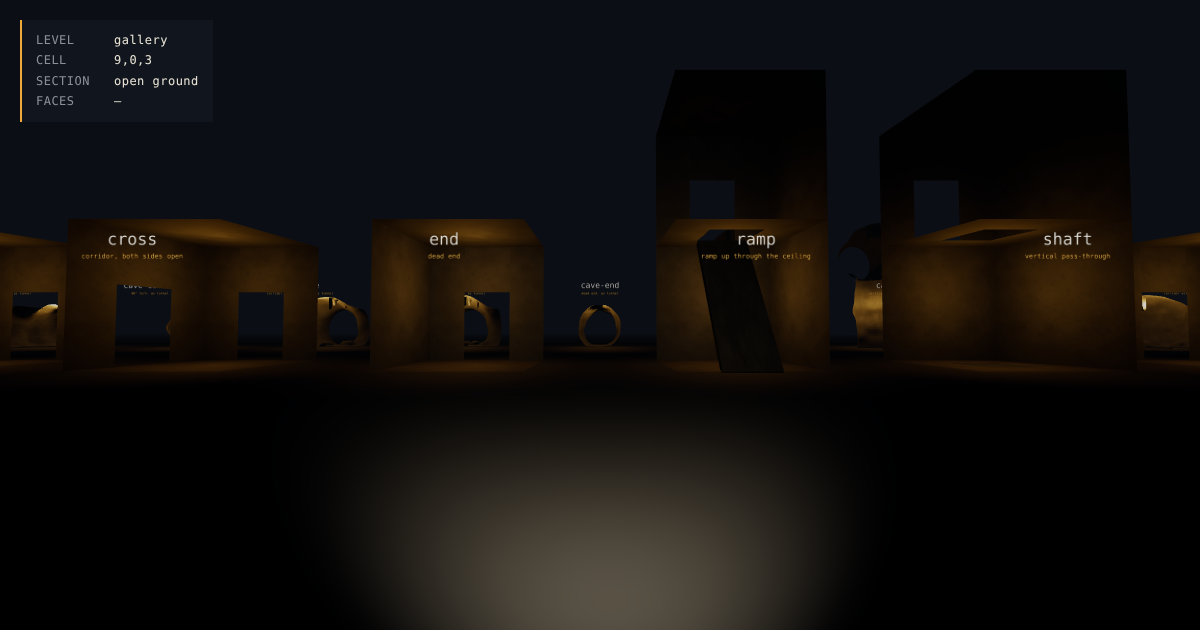
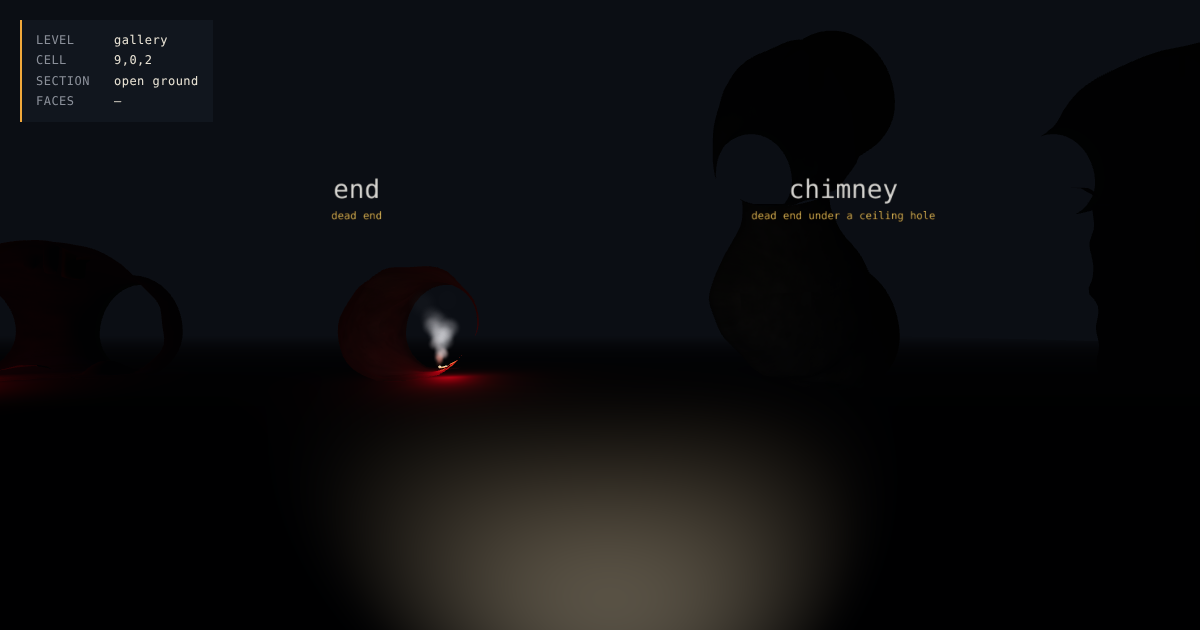
Cave Game: drop the flat cube kit and the ramp; cave sections become the kit
Claude-Session: https://claude.ai/code/session_01LchGKxkuDiaRbqrim1YbHp

diff --git a/Cave Game/src/sections.js b/Cave Game/src/sections.js
@@ -1,5 +1,4 @@
 import * as THREE from "three";
-import { materials } from "./materials.js";
 import { seeded } from "./noise.js";
 import { buildCave } from "./caves.js";
 
@@ -7,35 +6,24 @@ import { buildCave } from "./caves.js";
 // y = 0. Openings sit at fixed positions on each face so any two sections that
 // both open onto a shared face line up.
 export const CELL = 6;
-export const DOOR_W = 2.4;
-export const DOOR_H = 3.6;
-export const HOLE = 2.4;
 
 export const FACES = [ "n", "e", "s", "w" ];
 export const OPPOSITE = { n: "s", e: "w", s: "n", w: "e", up: "down", down: "up" };
 
-const HALF = CELL / 2;
-const RAMP_T = 0.3;
-
 // Openings are listed for rotation 0. "rot" in a level is quarter turns
-// clockwise seen from above; walls rotate, up/down stay put.
-const BASE = {
+// clockwise seen from above; wall openings rotate, up/down stay put.
+export const KIT = {
     corridor: { open: [ "n", "s" ], blurb: "straight pass-through" },
     corner: { open: [ "n", "e" ], blurb: "90° turn" },
-    tee: { open: [ "n", "s", "e" ], blurb: "corridor, one side open" },
-    cross: { open: [ "n", "e", "s", "w" ], blurb: "corridor, both sides open" },
+    tee: { open: [ "n", "s", "e" ], blurb: "one side opens off" },
+    cross: { open: [ "n", "e", "s", "w" ], blurb: "both sides open off" },
     end: { open: [ "n" ], blurb: "dead end" },
-    ramp: { open: [ "s", "up" ], blurb: "ramp up through the ceiling", build: buildRamp },
+    chimney: { open: [ "s", "up" ], blurb: "dead end under a ceiling hole" },
     shaft: { open: [ "up", "down" ], blurb: "vertical pass-through" },
     pit: { open: [ "n", "down" ], blurb: "dead end over a drop" },
-    well: { open: [ "n", "s", "down" ], blurb: "corridor with a floor hole" },
-    cap: { open: [ "n", "s", "up" ], blurb: "corridor with a ceiling hole" }
+    well: { open: [ "n", "s", "down" ], blurb: "passage with a floor hole" },
+    cap: { open: [ "n", "s", "up" ], blurb: "passage with a ceiling hole" }
 };
-
-export const KIT = { ...BASE };
-for ( const [ name, def ] of Object.entries( BASE ) ) {
-    KIT[ `cave-${ name }` ] = { ...def, blurb: `${ def.blurb }, as tunnel`, build: null, cave: true };
-}
 
 export function rotatedOpenings( type, rot ) {
     return KIT[ type ].open.map( ( f ) => {
@@ -44,97 +32,14 @@ export function rotatedOpenings( type, rot ) {
     } );
 }
 
-// Plane whose UVs are scaled so texture density matches a full CELL face.
-function panel( w, h, kind ) {
-    const geo = new THREE.PlaneGeometry( w, h );
-    const uv = geo.attributes.uv;
-    for ( let i = 0; i < uv.count; i++ ) {
-        uv.setXY( i, uv.getX( i ) * w / CELL, uv.getY( i ) * h / CELL );
-    }
-    const mesh = new THREE.Mesh( geo, materials[ kind ] );
-    return mesh;
-}
-
-// Wall in local space: lies at z = +HALF facing the centre (-z). Rotated into
-// place by the caller.
-function buildWall( open ) {
-    const group = new THREE.Group();
-    const add = ( w, h, x, y ) => {
-        const m = panel( w, h, "wall" );
-        m.rotation.y = Math.PI;
-        m.position.set( x, y, HALF );
-        group.add( m );
-    };
-    if ( !open ) {
-        add( CELL, CELL, 0, HALF );
-        return group;
-    }
-    const side = ( CELL - DOOR_W ) / 2;
-    add( side, CELL, -( DOOR_W / 2 + side / 2 ), HALF );
-    add( side, CELL, DOOR_W / 2 + side / 2, HALF );
-    add( DOOR_W, CELL - DOOR_H, 0, DOOR_H + ( CELL - DOOR_H ) / 2 );
-    return group;
-}
-
-// Horizontal slab at y with an optional centred square hole. `up` selects
-// which way it faces.
-function buildSlab( y, hole, up ) {
-    const group = new THREE.Group();
-    const kind = up ? "floor" : "ceiling";
-    const add = ( w, d, x, z ) => {
-        const m = panel( w, d, kind );
-        m.rotation.x = up ? -Math.PI / 2 : Math.PI / 2;
-        m.position.set( x, y, z );
-        group.add( m );
-    };
-    if ( !hole ) {
-        add( CELL, CELL, 0, 0 );
-        return group;
-    }
-    const side = ( CELL - HOLE ) / 2;
-    add( CELL, side, 0, -( HOLE / 2 + side / 2 ) );
-    add( CELL, side, 0, HOLE / 2 + side / 2 );
-    add( side, HOLE, -( HOLE / 2 + side / 2 ), 0 );
-    add( side, HOLE, HOLE / 2 + side / 2, 0 );
-    return group;
-}
-
-// Slab from the south doorsill up to the far edge of the ceiling hole.
-function buildRamp( group ) {
-    const run = HALF + HOLE / 2;
-    const length = Math.hypot( run, CELL );
-    const angle = Math.atan2( CELL, run );
-    const ramp = new THREE.Mesh( new THREE.BoxGeometry( HOLE, RAMP_T, length ), materials.step );
-    ramp.rotation.x = angle;
-    ramp.position.set( 0, CELL / 2 - RAMP_T / 2 * Math.cos( angle ), HALF - run / 2 - RAMP_T / 2 * Math.sin( angle ) );
-    group.add( ramp );
-}
-
-// Builds a section at rotation 0 in local space. Faces point inward only, so
-// from outside a cube you look straight through into it. `seed` keeps a cave
-// section's erosion stable between loads.
+// Builds a section at rotation 0 in local space. `seed` keeps its erosion
+// stable between loads.
 export function buildSection( type, seed = 1 ) {
     const def = KIT[ type ];
     if ( !def ) {
         throw new Error( `Unknown section type: ${ type }` );
     }
-    const open = new Set( def.open );
     const group = new THREE.Group();
-
-    if ( def.cave ) {
-        buildCave( group, open, { rand: seeded( seed ) } );
-    } else {
-        group.add( buildSlab( 0, open.has( "down" ), true ) );
-        group.add( buildSlab( CELL, open.has( "up" ), false ) );
-        FACES.forEach( ( face, i ) => {
-            const wall = buildWall( open.has( face ) );
-            wall.rotation.y = Math.PI - i * Math.PI / 2;
-            group.add( wall );
-        } );
-    }
-
-    if ( def.build ) {
-        def.build( group );
-    }
+    buildCave( group, new Set( def.open ), { rand: seeded( seed ) } );
     return group;
 }

diff --git a/Cave Game/src/caves.js b/Cave Game/src/caves.js
@@ -3,7 +3,7 @@ import { MarchingCubes } from "three/addons/objects/MarchingCubes.js";
 import { materials } from "./materials.js";
 import { noise3 } from "./noise.js";
 
-// Cave sections are carved, not assembled. Each one is a signed distance field
+// Sections are carved, not assembled. Each one is a signed distance field
 // (negative = air) made of tubes running from every opening to the centre,
 // a chamber where three or more meet, and noise that pinches and swells the
 // passage. Marching cubes turns the field into one inward-facing mesh.
@@ -73,8 +73,6 @@ function carve( open, rand ) {
     const horizontal = faces.filter( ( f ) => !DIR[ f ][ 1 ] );
     const vertical = faces.filter( ( f ) => DIR[ f ][ 1 ] );
     const chamber = faces.length >= 3 || ( vertical.length && horizontal.length );
-    const ramp = faces.length === 2 && open.has( "s" ) && open.has( "up" );
-    const rampRun = HALF + VMOUTH - 0.1;
     const seed = rand() * 100;
     const tall = open.has( "up" );
     const hub = { y: tall ? 2.7 : CHAMBER.y, r: tall ? 2.35 : CHAMBER.r };
@@ -137,11 +135,6 @@ function carve( open, rand ) {
             air = Math.max( air, -capsule( px, py, pz, s[ 0 ], 5.6, s[ 1 ], s[ 0 ], s[ 3 ], s[ 1 ], s[ 2 ] ) );
         }
 
-        // Ramp: solid rock under a plane from the south sill up to the ceiling mouth.
-        if ( ramp && Math.abs( px ) < VMOUTH ) {
-            air = Math.max( air, Math.min( CELL * ( HALF - pz ) / rampRun - py, VMOUTH - Math.abs( px ) ) );
-        }
-
         // Shell: rock along every closed face, pierced only by the exact mouth.
         for ( const f of [ "n", "e", "s", "w" ] ) {
             const d = DIR[ f ];
@@ -171,7 +164,7 @@ const offset = -HALF + scale * ( 1 - delta );
 
 export function buildCave( group, open, ctx ) {
     if ( !mc ) {
-        mc = new MarchingCubes( RES, materials.cave_wall, true, false, 40000 );
+        mc = new MarchingCubes( RES, materials.rock, true, false, 40000 );
         mc.isolation = 0;
     }
     const field = carve( open, ctx.rand );
@@ -204,6 +197,6 @@ export function buildCave( group, open, ctx ) {
     }
     geo.setAttribute( "uv", new THREE.BufferAttribute( uv, 2 ) );
 
-    const mesh = new THREE.Mesh( geo, materials.cave_wall );
+    const mesh = new THREE.Mesh( geo, materials.rock );
     group.add( mesh );
 }

diff --git a/Cave Game/src/materials.js b/Cave Game/src/materials.js
@@ -64,14 +64,13 @@ function texture( canvas ) {
     return tex;
 }
 
-function rock( seed, tint, roughness, flat = false ) {
+function rock( seed, tint, roughness ) {
     const base = rockCanvas( seed );
     const bump = new THREE.CanvasTexture( base );
     bump.wrapS = bump.wrapT = THREE.RepeatWrapping;
     return new THREE.MeshStandardMaterial( {
         bumpMap: bump,
-        bumpScale: flat ? 0.3 : 0.6,
-        flatShading: flat,
+        bumpScale: 0.6,
         map: texture( tinted( base, tint ) ),
         metalness: 0,
         roughness
@@ -79,11 +78,6 @@ function rock( seed, tint, roughness, flat = false ) {
 }
 
 export const materials = {
-    cave_ceiling: rock( 0x2b9f, "#4e5663", 0.97, true ),
-    cave_floor: rock( 0x61d3, "#6a675f", 0.92, true ),
-    cave_wall: rock( 0xc4e1, "#5a6170", 0.95 ),
-    ceiling: rock( 0x7a11, "#5a6270", 0.95 ),
-    floor: rock( 0x3c21, "#6b6a66", 0.9 ),
     ground: new THREE.MeshStandardMaterial( {
         color: 0x272d38,
         polygonOffset: true,
@@ -91,6 +85,5 @@ export const materials = {
         polygonOffsetUnits: 1,
         roughness: 1
     } ),
-    step: rock( 0x5e07, "#7a776f", 0.85 ),
-    wall: rock( 0xa5c3, "#5f6672", 0.92 )
+    rock: rock( 0xc4e1, "#5a6170", 0.95 )
 };

diff --git a/Cave Game/index.html b/Cave Game/index.html
@@ -39,7 +39,7 @@
         <div class="sheet">
             <p class="eyebrow">survey // level kit</p>
             <h1>Cave Game</h1>
-            <p id="blurb">Every section fits one cube. Levels are JSON grids of section type + rotation. This level lays the whole kit out so you can walk around and through each piece.</p>
+            <p id="blurb"></p>
             <dl class="controls">
                 <dt><kbd>E</kbd><kbd>S</kbd><kbd>D</kbd><kbd>F</kbd></dt><dd>move (or arrows)</dd>
                 <dt><kbd>Shift</kbd></dt><dd>run</dd>

diff --git a/Cave Game/README.md b/Cave Game/README.md
@@ -1,6 +1,6 @@
 # Cave Game
 
-First-person cave kit. Levels are JSON (JavaScript Object Notation) grids; every section primitive fits the same bounding cube, so any two sections that both open onto a shared face line up automatically.
+First-person cave kit. Levels are JSON (JavaScript Object Notation) grids; every section is carved inside the same bounding cube with fixed mouth shapes, so any two sections that both open onto a shared face line up automatically.
 
 Not listed on the experiments index.
 
@@ -12,7 +12,7 @@ python3 "Cave Game/serve.py" 8765     # from the experiments folder
 
 Open http://localhost:8765/Cave%20Game/ (ES modules need `http://`, not `file://`). Three.js loads from jsDelivr via an importmap; there is no build step. `serve.py` is a plain static server that sends `Cache-Control: no-store`; with `python3 -m http.server` Chrome will happily keep stale modules across reloads and you end up hard-refreshing after every edit.
 
-Levels: `?level=gallery` (default, the whole kit laid out) or `?level=sample` (a small connected loop with a ramp). `?pose=x,y,z,yaw,pitch` frames a still with the overlay hidden.
+Levels: `?level=gallery` (default, the whole kit laid out) or `?level=sample` (a small connected loop with a chimney). `?pose=x,y,z,yaw,pitch` frames a still with the overlay hidden.
 
 ## Controls
 
@@ -20,28 +20,28 @@ Levels: `?level=gallery` (default, the whole kit laid out) or `?level=sample` (a
 
 ## The cube
 
-`CELL = 6` units. Floor at local `y = 0`, ceiling at `y = 6`, walls at `±3`. Openings are fixed: wall doorways are `2.4` wide by `3.6` tall, centred; floor and ceiling holes are `2.4` squares, centred. All geometry faces inward only, so from outside a cube you look straight through into it, which is what makes the gallery readable without a cutaway mode.
+`CELL = 6` units: floor at local `y = 0`, ceiling at `y = 6`, walls at `±3`. Every section is carved out of that cube and all its rock faces inward, so from outside a cell you look straight through into it, which is what makes the gallery readable without a cutaway mode.
 
 ## Section kit (`src/sections.js`)
 
 | Type | Openings (rot 0) | Notes |
 | --- | --- | --- |
-| `corridor` | n s | |
-| `corner` | n e | |
-| `tee` | n s e | corridor, one side open |
-| `cross` | n e s w | corridor, both sides open |
+| `corridor` | n s | straight pass-through |
+| `corner` | n e | 90° turn |
+| `tee` | n s e | one side opens off |
+| `cross` | n e s w | both sides open off |
 | `end` | n | dead end |
-| `ramp` | s up | slab from the south doorsill up through the ceiling hole (about 55°) |
-| `shaft` | up down | vertical pass-through (fall only; no climbing yet) |
+| `chimney` | s up | dead end under a ceiling hole; hold `A` to rise through it |
+| `shaft` | up down | vertical pass-through |
 | `pit` | n down | dead end over a drop |
-| `well` | n s down | corridor with a floor hole |
-| `cap` | n s up | corridor with a ceiling hole |
-
-Each type also exists as a `cave-` variant (`cave-corridor`, `cave-ramp`, and so on) with the same openings but none of the box. A cave section is carved, not assembled: `src/caves.js` writes a signed distance field (negative is air) made of an elliptical tube from every wall opening to the centre, a round shaft from every floor or ceiling opening, a sphere chamber wherever three or more meet, three octaves of value noise that pinch and swell the passage, and small spheres and capsules added back as rubble and stalactites. The `cave-ramp` carves its slope as solid rock instead of using the slab. Marching cubes (Three.js's `MarchingCubes` addon, 30³ samples per cell) turns the field into one inward-facing mesh, shaded smoothly with the field gradient as its normals.
-
-Two rules keep cave sections connectable. Noise fades to zero within `1.3` units of any open face, so a tube mouth at the cell boundary is always the same fixed ellipse (`3.2` wide, floor to `3.4`) or circle (radius `1.3`) and lines up with the neighbour's. A `0.15` shell of rock is forced along every closed face, pierced only by the exact mouth shape, so air never leaks out of the cube. Cave and flat sections can be placed next to each other and are passable, but their mouths are different shapes, so the join looks rough and a flat wall offers no collision from the cave side.
+| `well` | n s down | passage with a floor hole |
+| `cap` | n s up | passage with a ceiling hole |
 
 `n` is `-z`, `e` is `+x`. `rot` is quarter turns clockwise seen from above (0 to 3); wall openings rotate, `up`/`down` do not. `rotatedOpenings( type, rot )` gives the world-facing set.
+
+A section is carved, not assembled: `src/caves.js` writes a signed distance field (negative is air) made of an elliptical tube from every wall opening to the centre, a round shaft from every floor or ceiling opening, a sphere chamber wherever three or more meet, three octaves of value noise that pinch and swell the passage, and small spheres and capsules added back as rubble and stalactites. Marching cubes (Three.js's `MarchingCubes` addon, 30³ samples per cell) turns the field into one inward-facing mesh, shaded smoothly with the field gradient as its normals.
+
+Two rules keep sections connectable. Noise fades to zero within `1.3` units of any open face, so a tube mouth at the cell boundary is always the same fixed ellipse (`3.2` wide, floor to `3.4`) or circle (radius `1.3`) and lines up with the neighbour's. A `0.15` shell of rock is forced along every closed face, pierced only by the exact mouth shape, so air never leaks out of the cube.
 
 ## Level JSON (`levels/*.json`)
 
@@ -68,23 +68,23 @@ On load, every opening is checked against its neighbour. A face that opens into 
 
 ## Movement (`src/main.js`)
 
-Raycast collision against the section meshes: two horizontal rays at knee and chest height block walls, a downward ray from step height finds the floor and follows ramps up and down, an upward ray stops you at ceilings, and gravity takes over at holes. Lifting with `A` cancels gravity while held and ramps up to 3.2 m/s. Because faces are inward-only, collision also only works from inside a cube; walking into a cube from outside passes through its wall. Fall below `y = -40` and you respawn.
+Raycast collision against the section meshes: two horizontal rays at knee and chest height block walls, a downward ray from step height finds the floor and follows slopes up and down, an upward ray stops you at ceilings, and gravity takes over at holes. Lifting with `A` cancels gravity while held and ramps up to 3.2 m/s. Because rock faces inward only, collision also only works from inside a cell; walking into a cell from outside passes through its wall. Fall below `y = -40` and you respawn.
 
 ## Performance
 
-No shadow maps. Pixel ratio is capped at 1.5. The only lights are the headlamp, a dim hemisphere fill, and one point light per flare. Collision rays only test the meshes of the 3×3×3 block of cells around the player. Cave fields are sampled at 30³, which keeps a cave cell at roughly 3–6k triangles; the console reports build time and the triangle count in view.
+No shadow maps. Pixel ratio is capped at 1.5. The only lights are the headlamp, a dim hemisphere fill, and one point light per flare. Collision rays only test the meshes of the 3×3×3 block of cells around the player. Fields are sampled at 30³, which keeps a cell at roughly 3–6k triangles; the console reports build time and the triangle count in view.
 
 ## Files
 
 | File | Purpose |
 | --- | --- |
-| `src/sections.js` | Cube constants, the kit table, and the section builders |
+| `src/sections.js` | Cube constants, the kit table, rotation helper |
 | `src/level.js` | JSON loading, placing cells, connectivity check, labels, ground |
-| `src/materials.js` | Canvas-generated rock colour and bump maps, smooth and flat-shaded sets |
+| `src/materials.js` | Canvas-generated rock colour and bump map |
 | `src/noise.js` | Seeded RNG (random number generator) and 3D value noise |
-| `src/caves.js` | Signed distance field and marching-cubes mesh for `cave-` sections |
+| `src/caves.js` | Signed distance field and marching-cubes mesh for every section |
 | `src/flare.js` | Dropped flare: stick, flickering light, smoke particles |
 | `src/main.js` | Renderer, headlamp, pointer-lock controls, collision, HUD (heads-up display) |
 | `src/style.css` | Entry sheet, survey log, crosshair |
-| `levels/gallery.json` | Flat kit in the front row, cave variants staggered behind, vertical partners stacked |
-| `levels/sample.json` | Small connected loop of cave sections using rotation and a ramp |
+| `levels/gallery.json` | Every section in a row, vertical partners stacked |
+| `levels/sample.json` | Small connected loop using rotation and a chimney |
